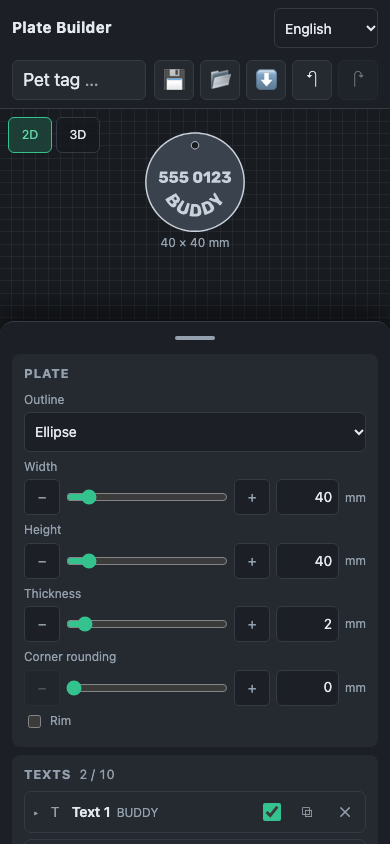
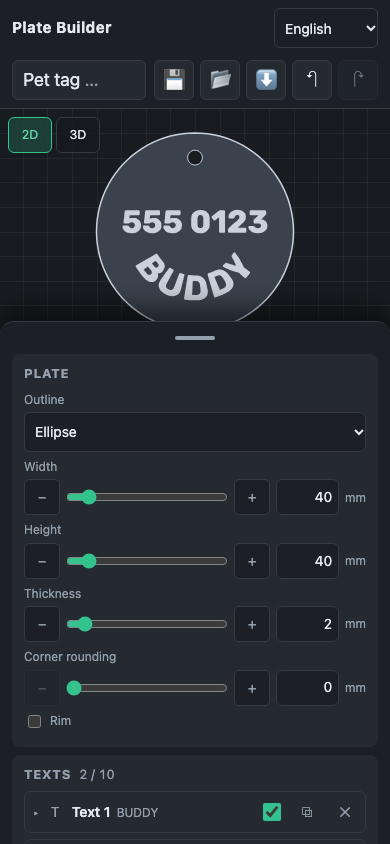
Phone: the view fills the screen under the top bar
As in Case Constructor, the sheet lies over a view that takes the whole
screen (it kept 52 % of the height, the rest empty with the sheet closed).
The 3D view, fitted while hidden behind the 2D tab, fits again at the
shape it shows in, until the camera is turned by hand: a wide plate ran
off a phone's tall view. The smoke checks both.

Changed region(s): [[0.2462, 0.154, 0.7692, 0.4005]]

diff --git a/src/render/scene.ts b/src/render/scene.ts
@@ -65,6 +65,11 @@ export function createScene(canvas: HTMLCanvasElement): SceneHandle | null {
   let mesh: THREE.Mesh | null = null;
   let radius = 60;
   let fitted = false;
+  /** whether the person turned or zoomed since the last fit: until then a new size fits again */
+  let touched = false;
+  controls.addEventListener('start', () => {
+    touched = true;
+  });
   let disposed = false;
 
   function setGrid(size: number): void {
@@ -91,6 +96,8 @@ export function createScene(canvas: HTMLCanvasElement): SceneHandle | null {
       renderer.setSize(w, h, false);
       camera.aspect = w / h;
       camera.updateProjectionMatrix();
+      // a view hidden while fitted (a phone's 2D tab) had another shape: fit to the one it shows in
+      if (fitted && !touched) place(camera.position.clone().sub(controls.target));
     }
   }
 
@@ -110,6 +117,7 @@ export function createScene(canvas: HTMLCanvasElement): SceneHandle | null {
     const vFov = (camera.fov * Math.PI) / 180;
     const hFov = 2 * Math.atan(Math.tan(vFov / 2) * (camera.aspect || 1));
     const distance = (radius / Math.sin(Math.min(vFov, hFov) / 2)) * 1.1;
+    touched = false;
     controls.target.set(0, 0, 0);
     camera.position.copy(direction).setLength(distance);
     camera.near = Math.max(0.1, distance / 200);

diff --git a/src/style.css b/src/style.css
@@ -1,7 +1,8 @@
 /* Mobile first: base rules are for a phone, min-width queries add room.
    Logical properties (inline/block) mirror the layout for RTL by themselves.
-   A phone: the view on top, the panel's cards below it. From 1024 px: the
-   panel on the start side, the view filling the rest. */
+   A phone: the view fills the screen, the panel a bottom sheet over it, as
+   in Case Constructor. From 1024 px: the panel on the start side, the view
+   filling the rest. */
 
 /* Case Constructor's dark palette with an emerald accent; dark only.
    --panel is also the theme colour (index.html, the manifest; a test
@@ -222,11 +223,12 @@ select {
   min-block-size: 0;
 }
 
+/* a phone: the view fills the screen under the top bar, the sheet lies over it */
 .views {
   position: relative;
+  flex: 1;
   display: grid;
-  block-size: 52dvh;
-  min-block-size: 280px;
+  min-block-size: 0;
   background: var(--bg);
   color: var(--text);
   overflow: hidden;

diff --git a/plans/PLAN-DESIGN.md b/plans/PLAN-DESIGN.md
@@ -199,5 +199,9 @@ unit` in one grid line; the label column ~96 px (Russian and Ukrainian
   `title` it finds; no new attribute was needed.
 - **D5**: the catalog's black vignette silhouettes are shown inverted on
   the dark tiles.
-- Not changed, found on the way: on a phone with the sheet closed the view
-  keeps 52 % of the height and leaves the rest empty, as before this work.
+- **Added (asked for after D6)**: on a phone the view fills the screen
+  under the top bar, the sheet lies over it, as in Case Constructor (it
+  kept 52 % of the height before, the rest empty with the sheet closed).
+  The 3D view, hidden while it was fitted, now fits again when it first
+  shows at its real shape, until the camera is turned by hand; the smoke
+  checks a wide plate stays inside a phone's tall 3D view.
